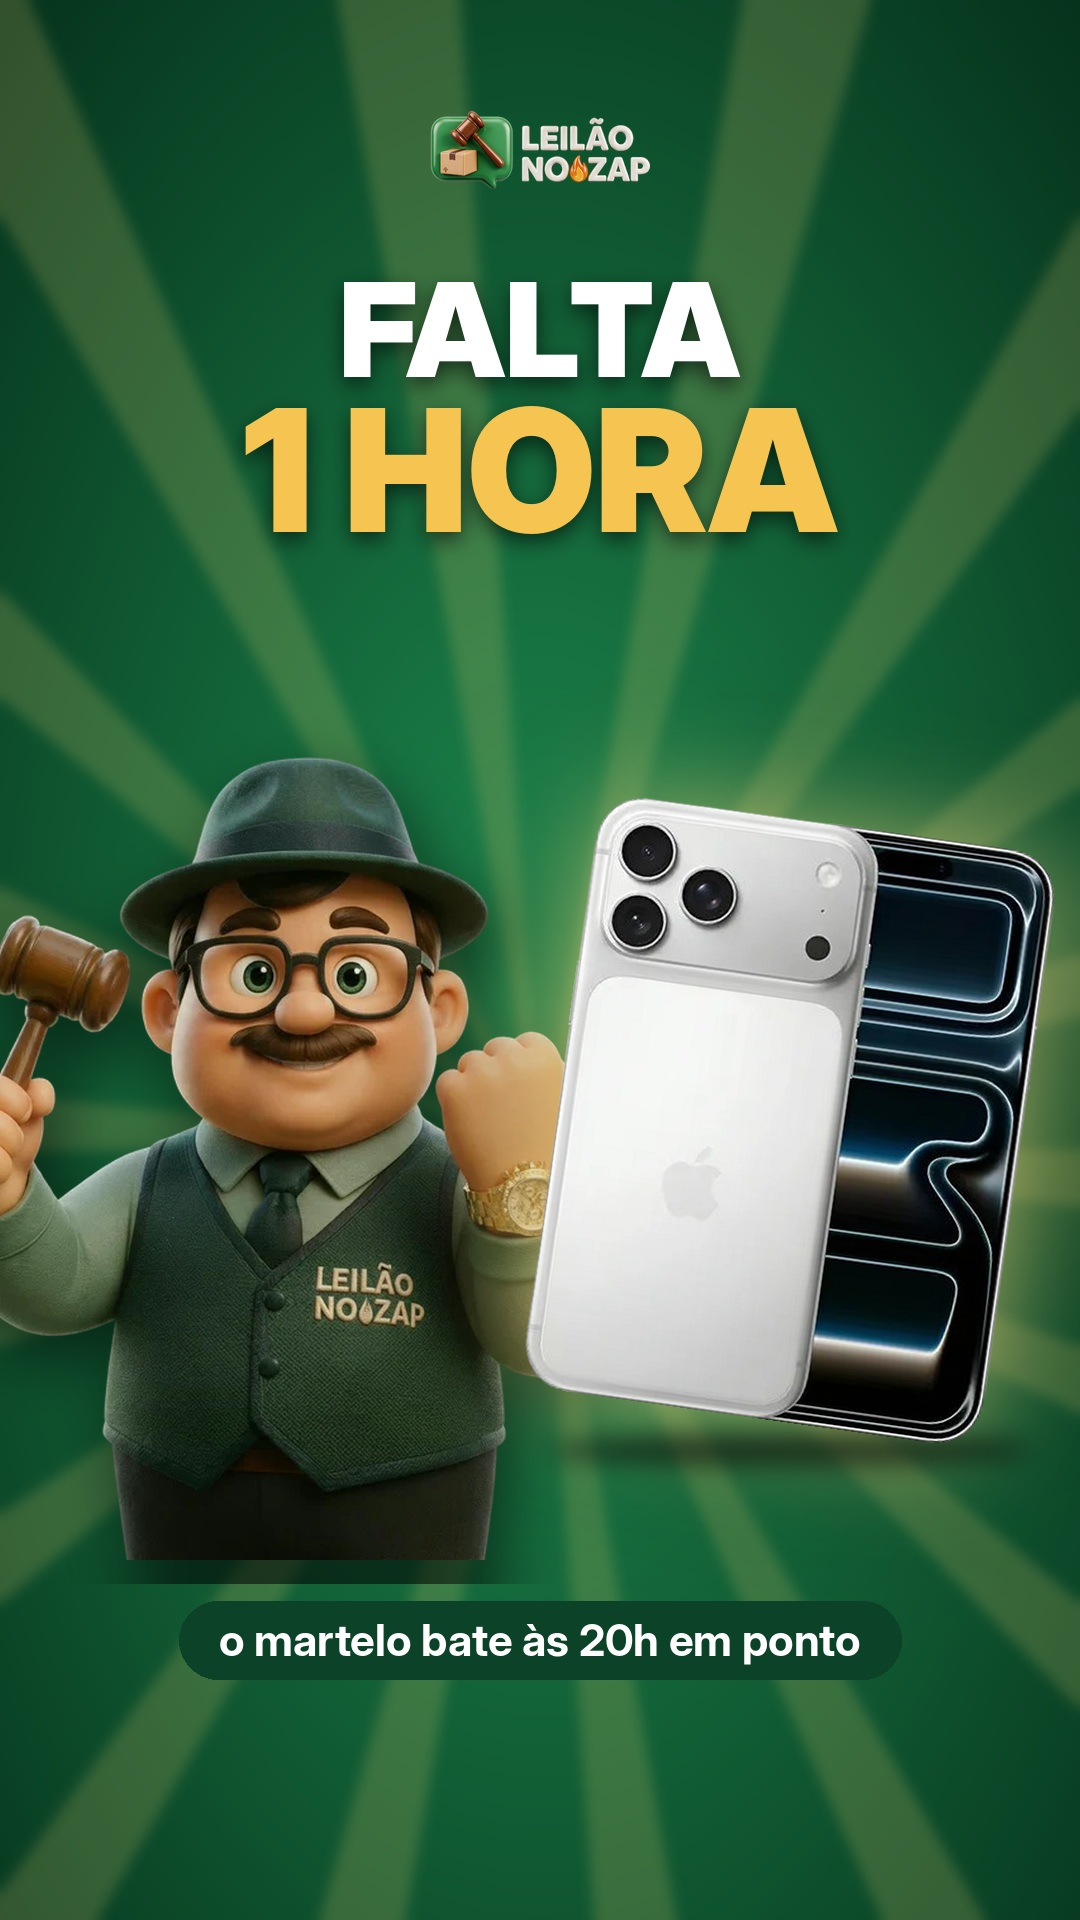
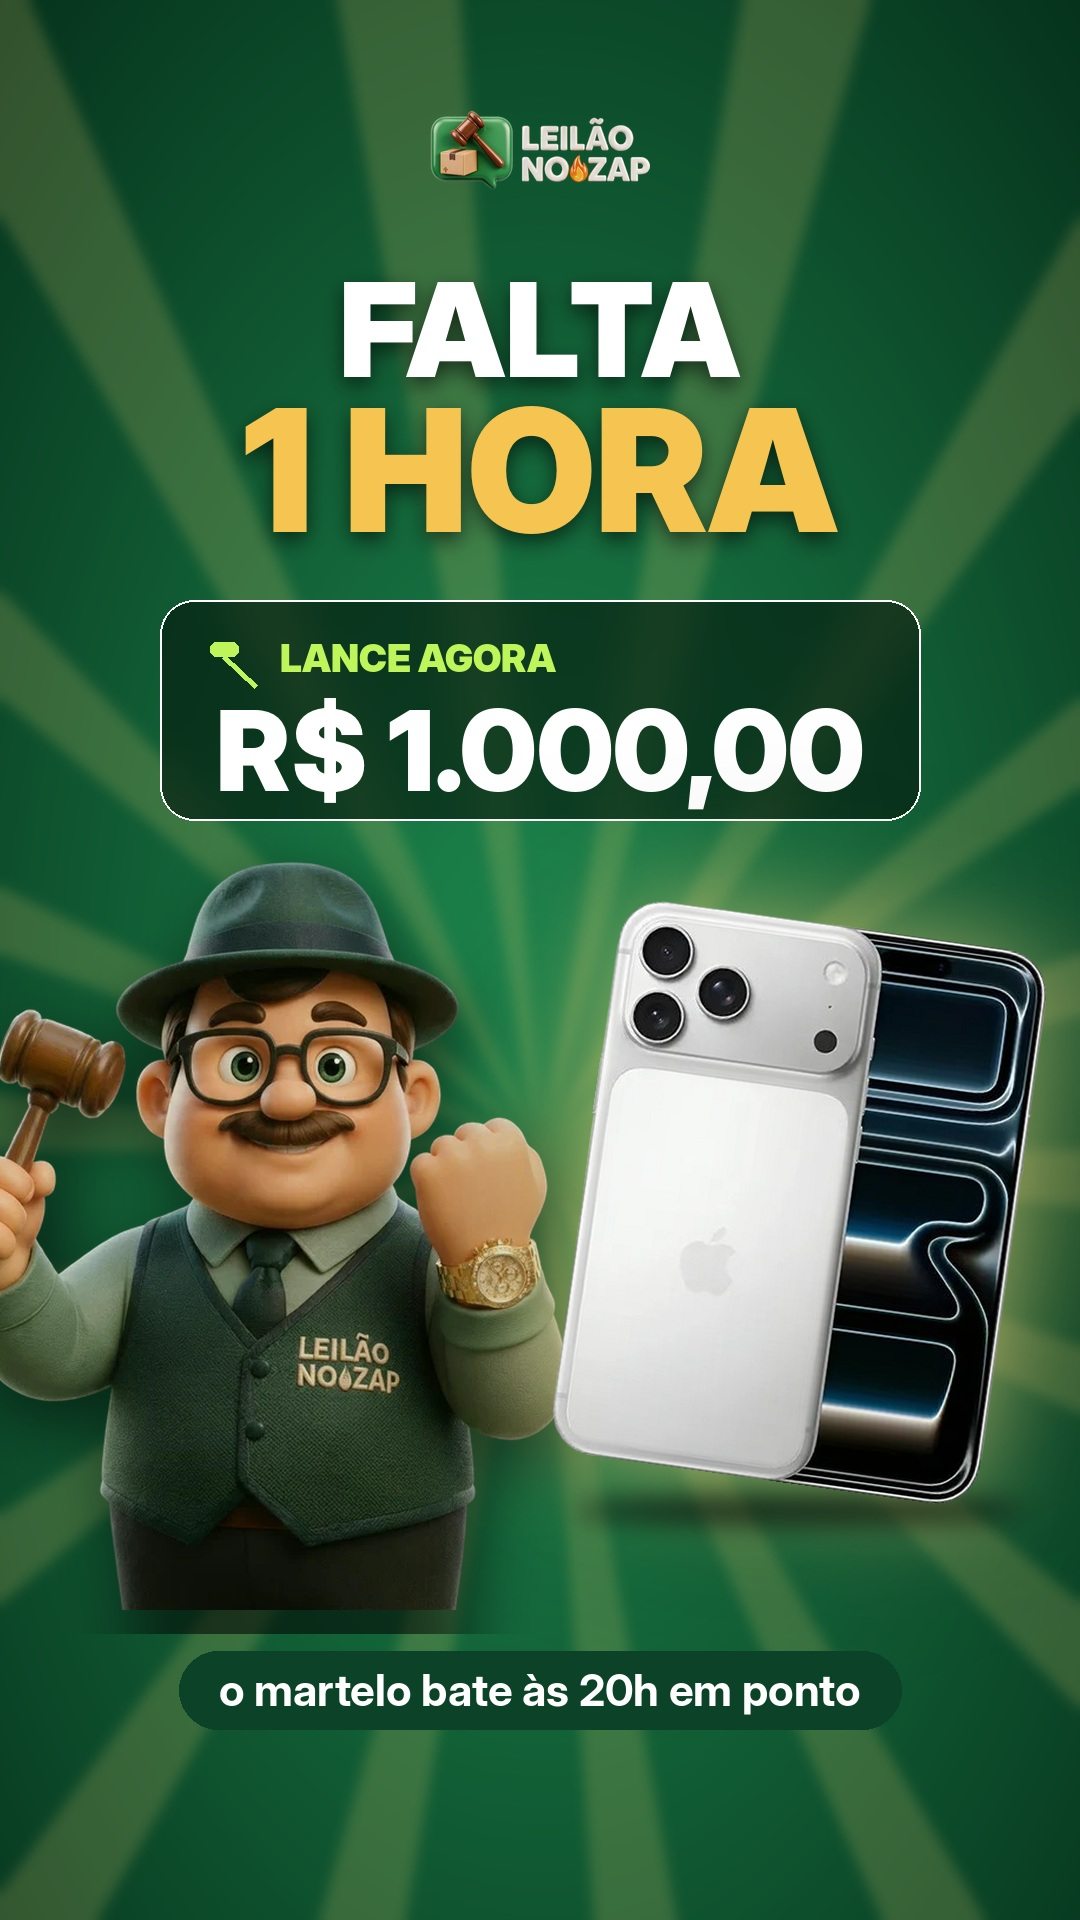
Arte 19h iPhone: contagem 'falta 1 hora' com lance atual R$ 1.000
Claude-Session: https://claude.ai/code/session_01JihU9VfVTYTrMqQpApFEjH

diff --git a/marketing/semana-2026-10-28/fonte/campanha_iphone.py b/marketing/semana-2026-10-28/fonte/campanha_iphone.py
@@ -170,9 +170,10 @@ def s7():
 def s8():
     b = radial(W, H, (30, 140, 80), (6, 50, 28), cy=.55); raios(b, W / 2, 1150, 18, (255, 220, 120), 45, 6); logo_(b)
     T(b, (W / 2, 330), 'FALTA', F('Black', 130), BR); T(b, (W / 2, 470), '1 HORA', F('Black', 170), OURO)
-    p = leiloeiro('a-relogio', 880); sombra(p, b, (-80, 1560 - p.height))
-    luz(b, 770, 1150, 260, OURO, 120); poe(b, iph(600, -8), 790, 1450, (255, 230, 140), forca=160)
-    pil(b, W / 2, 1640, 'o martelo bate às 20h em ponto', F('Bold', 44), FLOR, BR); sv(b, 'S08-19h-falta-1-hora')
+    lance_card(b, W / 2, 600, w=760)
+    p = leiloeiro('a-relogio', 820); sombra(p, b, (-70, 1610 - p.height))
+    luz(b, 780, 1220, 250, OURO, 120); poe(b, iph(560, -8), 800, 1510, (255, 230, 140), forca=160)
+    pil(b, W / 2, 1690, 'o martelo bate às 20h em ponto', F('Bold', 44), FLOR, BR); sv(b, 'S08-19h-falta-1-hora')
 
 # 9 · 19h30 — ÚLTIMA CHAMADA: noite, fogo, rastro de velocidade atrás do iPhone
 def s9():
